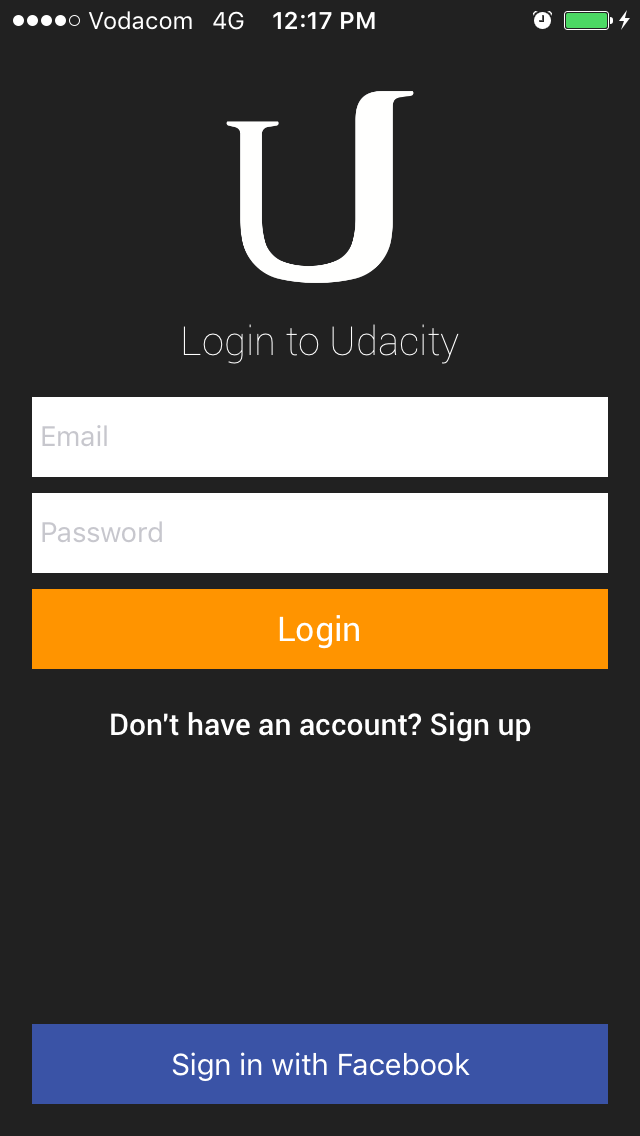
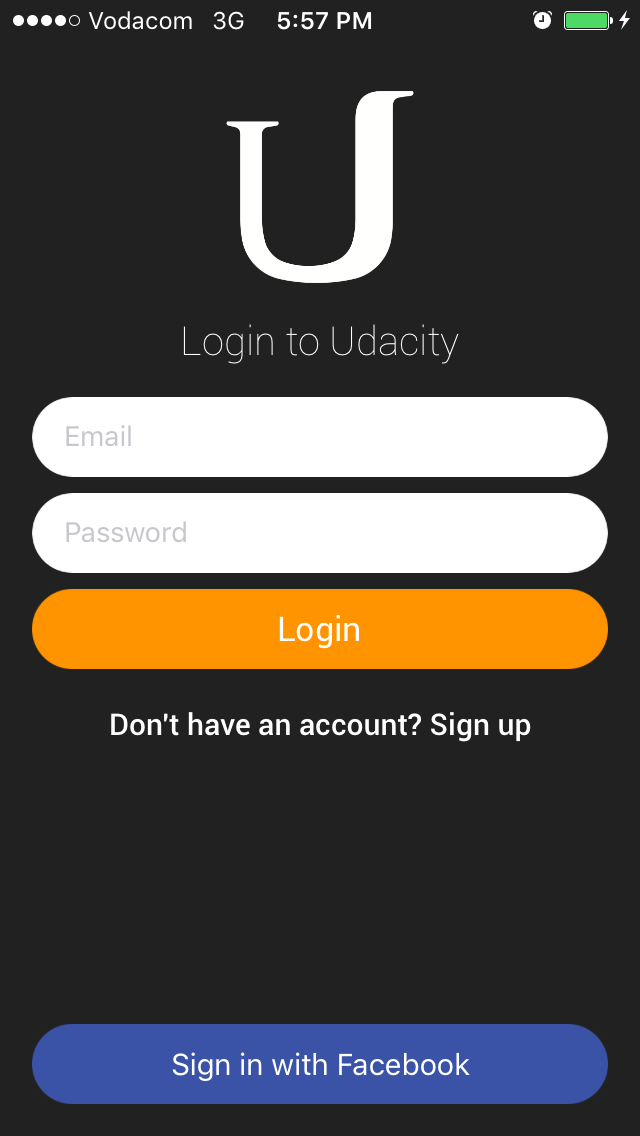
Rounded textfields and updated images.

diff --git a/OnTheMap/PaddedTextField.swift b/OnTheMap/PaddedTextField.swift
@@ -13,7 +13,7 @@ import UIKit
 
 class PaddedTextField: UITextField {
     
-    var padding = CGSize(width: 8.0, height: 4.0)
+    var padding = CGSize(width: 16.0, height: 4.0)
     
     override func awakeFromNib() {
         super.awakeFromNib()
@@ -30,5 +30,11 @@ class PaddedTextField: UITextField {
     
     override func textRect(forBounds bounds: CGRect) -> CGRect {
         return bounds.insetBy(dx: padding.width, dy: padding.height)
+    }
+    
+    override func layoutSubviews() {
+        super.layoutSubviews()
+        let diameter = min(bounds.width, bounds.height)
+        layer.cornerRadius = diameter * 0.5
     }
 }

diff --git a/OnTheMap/RoundedButton.swift b/OnTheMap/RoundedButton.swift
@@ -15,4 +15,9 @@ class RoundedButton: UIButton {
         self.layer.cornerRadius = 4
     }
 
+    override func layoutSubviews() {
+        super.layoutSubviews()
+        let diameter = min(bounds.width, bounds.height)
+        layer.cornerRadius = diameter * 0.5
+    }
 }

diff --git a/README.md b/README.md
@@ -4,6 +4,10 @@ On the Map iOS app for Udacity nanodegree.
 
 Add your location and URL to a world map. See locations and web sites of other students.
 
+<img src="Screenshots/iPhone/2a Map Portrait" width="320">
+<img src="Screenshots/iPhone/3b List Landscape" height="320">
+<img src="Screenshots/iPhone/5a Media Portrait" width="320">
+
 ## Features
 
 1. Log in with your Udacity credentials, or with your Facebook account. Activity indicator is shown during login.
